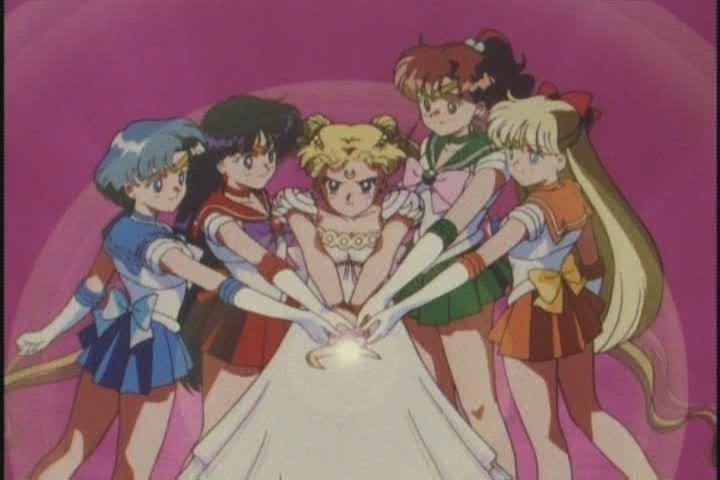
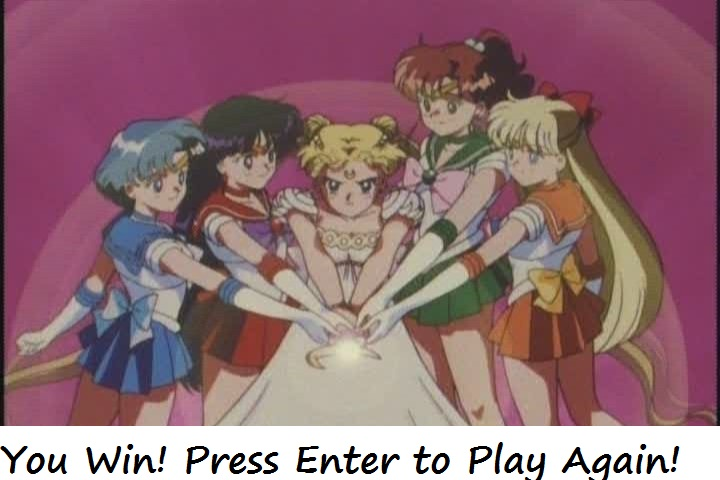
finished game

Changed region(s): [[0.0, 0.875, 1.0, 1.0]]

diff --git a/assets/javascript/game.js b/assets/javascript/game.js
@@ -16,6 +16,7 @@ var wins = 0;
 function startGame () {
     remainingLives = 10;
     gameStarted = true;
+    gameOver = false;
     wins = 0;
 
 
@@ -27,9 +28,8 @@ currentWordIndex = Math.floor(Math.random() * (availableWords.length));
 lettersGuessed = [];
 currentWord = [];
 
-// document.getElementById("pressKeyTryAgain").style.cssText= "display: none";
-// document.getElementById("gameover-image").style.cssText = "display: none";
-// document.getElementById("youwin-image").style.cssText = "display: none";
+document.getElementById("winimage").style.cssText = "display: none";
+document.getElementById("loseimage").style.cssText = "display: none";
 
 //Print spaces to the page (one for every letter in the word)
 for (var i=0; i < availableWords[currentWordIndex].length; i++) {
@@ -77,7 +77,9 @@ function findLetter(letter) {
         for(var i = 0; i < letterPosition.length; i++) {
             currentWord[letterPosition[i]] = letter;
             wins++;
+            console.log(wins);
         }
+
     }
 };
 
@@ -97,13 +99,14 @@ function Guess(letter) {
 };
 function checkWin() {
     if(currentWord.length === wins ) {
-        // document.getElementById("youwin-image").style.cssText = "display: block";
-        // document.getElementById("pressKeyTryAgain").style.cssText= "display: block";
+        document.getElementById("winimage").style.cssText = "display: block";
+        
         // wins = 1;
         gameOver = true;
         
     }
     else if (remainingLives == 0) {
+        document.getElementById("loseimage").style.cssText = "display: block";
         gameOver = true;
 
     }

diff --git a/index.html b/index.html
@@ -25,9 +25,11 @@
                     </div>       
                     <div class="row justify-content-center">
                         <div class="col-6 align-self-center" id="gameplay-column">
-                            <h4>Wins</h4>
+                            <img id="winimage" src="assets/images/smbattle.jpg" alt="Team Image" />
+                            <img id="loseimage" src="assets/images/youlose.jpg" alt="Death Image" />
+                            <h4>Correct Guesses</h4>
                             <h4 id="totalWins"></h5>
-                            <h4>Current Word</h4>
+                            <h4>Negaverse Baddie</h4>
                             <h4 id="currentWord"></h3>
                             <h4>Remaining Lives</h4>
                             <h4 id="remainingLives"></h6>
@@ -38,6 +40,9 @@
                     </div>
                     </div>
                 </div> 
+                <div class="footer">
+                    
+                </div>
                
             
                 <script>

diff --git a/assets/css/style.css b/assets/css/style.css
@@ -39,6 +39,20 @@ body {
     background-repeat: no-repeat; */
     text-align: center;
     line-height: .02em;
+    position: relative;
 
 }
+
+#winimage, #loseimage {
+    z-index: 1;
+    position: absolute;
+    width: 100%;
+    Height: 100%;
+    
+    
+}
+
+
+
+
 
